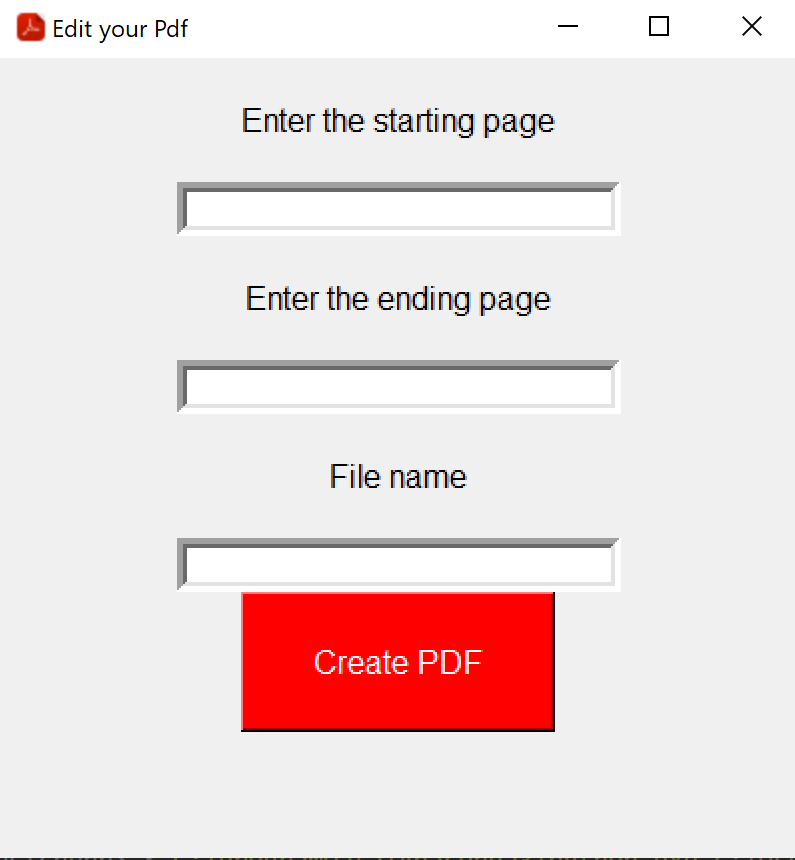
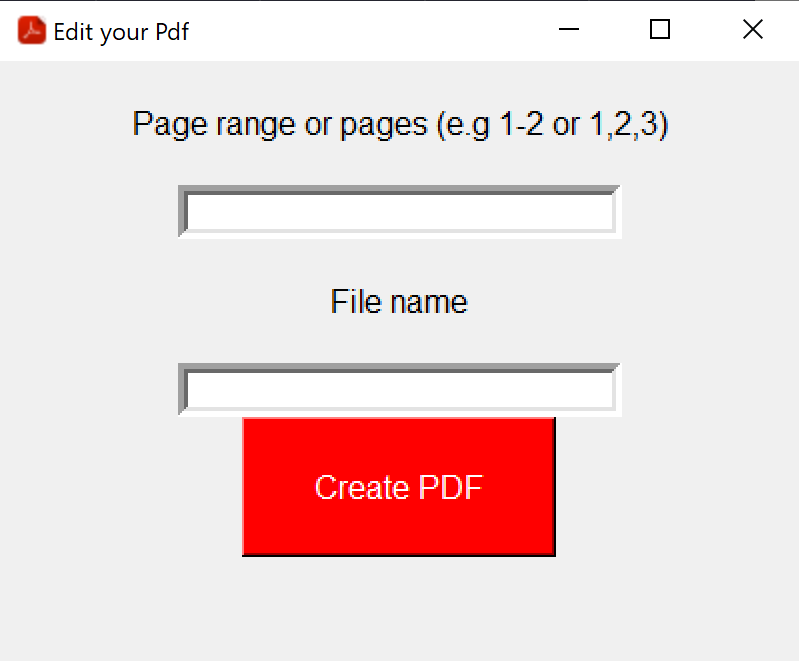
GUI update, improved edit pdf functionality

diff --git a/gui.py b/gui.py
@@ -14,7 +14,7 @@ class Application(tk.Tk):
         tk.Tk.__init__(self)
         # Main window is not resizable for now 
         self.resizable(0, 0)
-        self.geometry("400x300")
+        self.geometry("350x280")
         self.title("PDFEdit")
         self.iconbitmap('C:/Users/chenp/Documents/GitHub/PDFEdit/res/pdf.ico')
         self.create_widgets()
@@ -88,19 +88,15 @@ class Application(tk.Tk):
         top.title("Edit your Pdf")
         top.iconbitmap('C:/Users/chenp/Documents/GitHub/PDFEdit/res/pdf.ico')
         top.geometry("400x400")
-        label = tk.Label(top, font =("Arial", "12"), text = "Enter the starting page",pady = 20)
-        label2 = tk.Label(top, font =("Arial", "12"), text = "Enter the ending page", pady = 20)
+        label = tk.Label(top, font =("Arial", "12"), text = "Page range or pages (e.g 1-2 or 1,2,3)",pady = 20)
         label3 = tk.Label(top, font =("Arial", "12"), text = "File name", pady = 20)
-        start = tk.Entry(top, width = 35, borderwidth = 5)
-        end = tk.Entry(top, width = 35, borderwidth = 5)
+        pages = tk.Entry(top, width = 35, borderwidth = 5)
         file = tk.Entry(top, width = 35, borderwidth = 5)
         button = tk.Button(top, font =("Arial", "12"), text = "Create PDF", padx = 30, pady = 20, 
                             fg = '#ffffff', bg = '#ff0000', command = lambda: 
-                            self.create_split_pdf(file.get()+".pdf", start.get(), end.get()))
+                            self.create_split_pdf(file.get()+".pdf", pages.get()))
         label.pack()
-        start.pack()
-        label2.pack()
-        end.pack()
+        pages.pack()
         label3.pack()
         file.pack()
         button.pack()
@@ -108,10 +104,10 @@ class Application(tk.Tk):
 
     # A wrapper function for create_split in pdf_edit.py
     # Opens newly created pdf and prompts user to select pdf and folder to store
-    def create_split_pdf(self, output_name, start, end): 
+    def create_split_pdf(self, output_name, pages): 
         file = tk.filedialog.askopenfilename(initialdir = os.getcwd(), title = "Select PDF")
         folder = tk.filedialog.askdirectory(initialdir = os.getcwd(), title = "Select Folder To Store")
-        new_file = edit.create_split(file, output_name, folder, start, end)
+        new_file = edit.create_split(file, output_name, folder, pages)
         os.startfile(new_file)
 
 

diff --git a/pdf_edit.py b/pdf_edit.py
@@ -25,14 +25,22 @@ def merge_pdfs(output_name, location, pdf1, pdf2):
 # create_split creates a new pdf from a given pdf 
 # with page ranging from (start, end)
 # returns location of newly created pdf
-def create_split(pdf, output_name, location, start, end):
-    start = int(start)
-    end   = int(end) + 1
+def create_split(pdf, output_name, location, pages):
     location = location + '/'+ output_name
     pdf_writer = PdfFileWriter()
     pdf_reader = PdfFileReader(pdf)
-    for page in range(start, end):
-        pdf_writer.addPage(pdf_reader.getPage(page))
+    if "," in pages:
+        pages = pages.split(",")
+        pages = [int(i) for i in pages]
+        for page in pages:
+            pdf_writer.addPage(pdf_reader.getPage(page))
+    elif '-' in pages:
+        pages = pages.split('-')
+        pages = [int(i) for i in pages]
+        start = pages[0]
+        end = pages[1] + 1
+        for page in range(start, end):
+            pdf_writer.addPage(pdf_reader.getPage(page))
     with open(location, 'wb') as out:
         pdf_writer.write(out)
     print(location)

diff --git a/README.md b/README.md
@@ -4,6 +4,6 @@
  or convert word files.
 ## Screenshots
 ### ![Outline][logo]
-[logo]:https://github.com/chenrichard10/PDFEdit/res/outline.png
+[logo]:https://github.com/chenrichard10/PDFEdit/blob/master/res/outline.PNG
 ### ![Edit PDF Screen][logo]
-[logo]:https://github.com/chenrichard10/PDFEdit/res/EditPDF.png
+[logo]:https://github.com/chenrichard10/PDFEdit/blob/master/res/EditPDF.PNG
